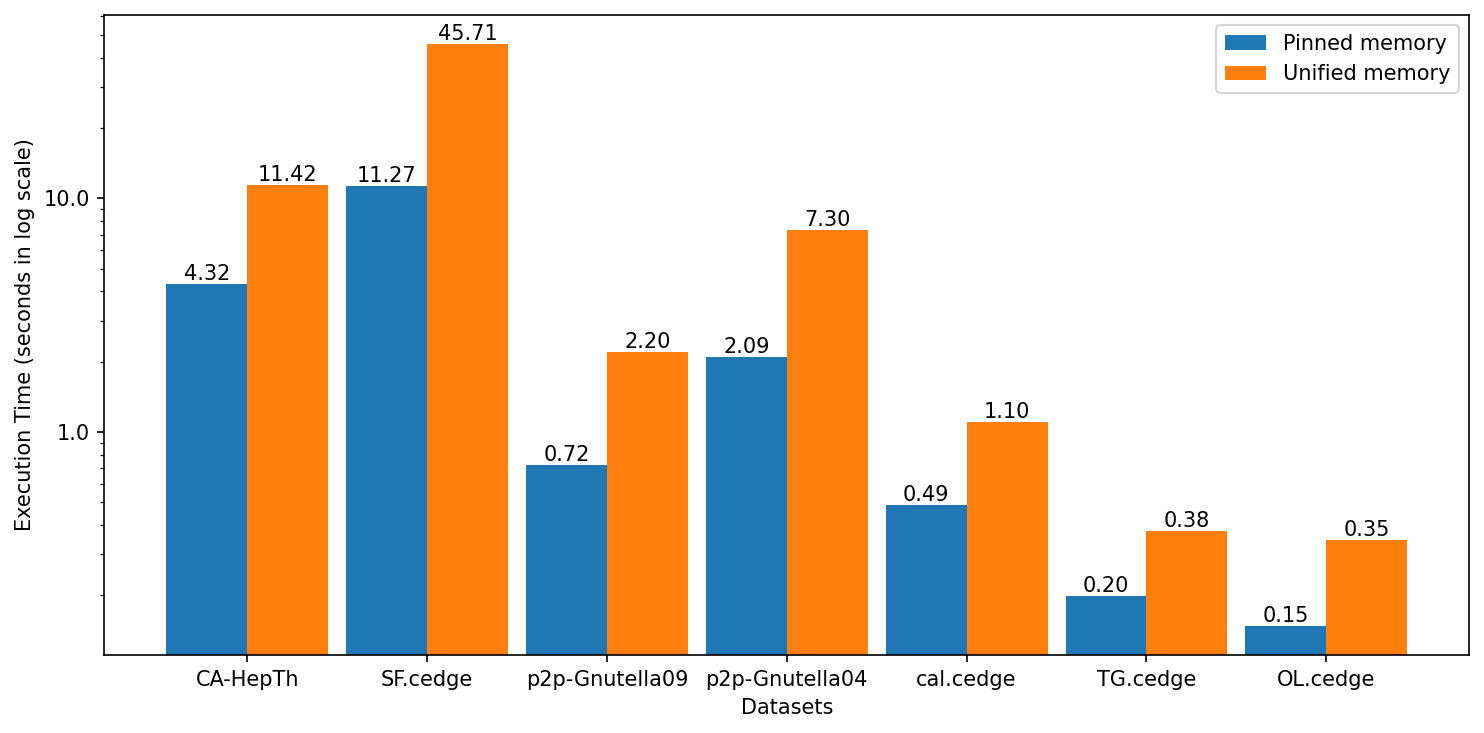
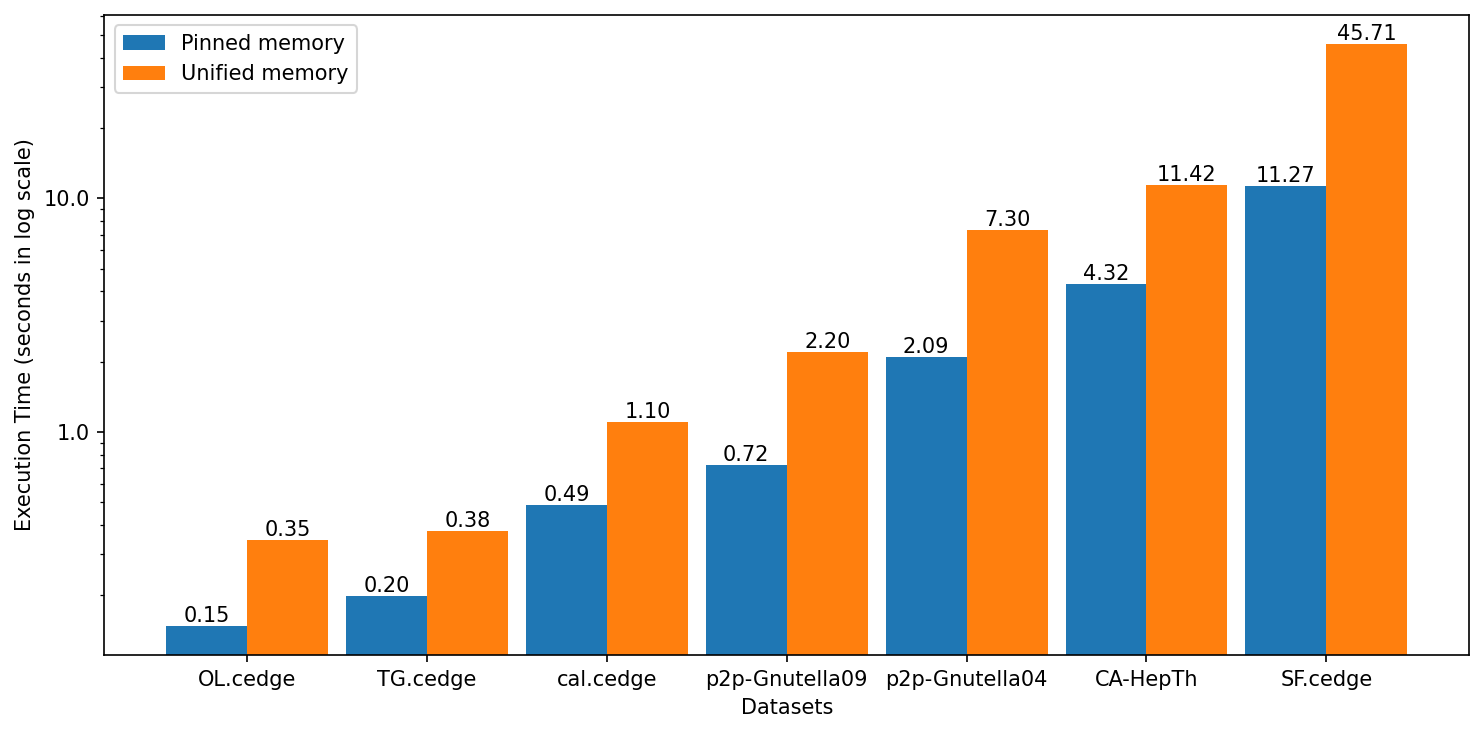
added random graph for isolated hashjoin

diff --git a/rapids_implementation/join.py b/rapids_implementation/join.py
@@ -1,7 +1,9 @@
+import random
 import re
 import cudf
 import time
 import json
+import pandas as pd
 
 
 def display_time(time_start, time_end, message):
@@ -11,8 +13,8 @@ def display_time(time_start, time_end, message):
 
 def get_join(relation_1, relation_2, column_names=['column 1', 'column 2']):
     result = relation_1.merge(relation_2, on=column_names[0],
-                            how="inner",
-                            suffixes=('_relation_1', '_relation_2'))
+                              how="inner",
+                              suffixes=('_relation_1', '_relation_2'))
     temp = result.drop([column_names[0]], axis=1)
     temp.columns = column_names
     return temp
@@ -26,6 +28,26 @@ def get_dataset(filename, column_names=['column 1', 'column 2'],
         nrows = int(re.search('\d+|$', filename).group())
     return cudf.read_csv(filename, sep='\t', header=None,
                          names=column_names, nrows=nrows)
+
+
+def get_dataset_random(dataset, random_category,
+                       column_names=['column 1', 'column 2']):
+    nrows = int(re.search('\d+|$', dataset).group())
+    ar = []
+    if random_category == 1:
+        for i in range(nrows):
+            row = []
+            row.append(random.randint(0, 32767))
+            row.append(random.randint(0, 32767))
+            ar.append(row)
+    else:
+        x = 1
+        y = 2
+        for i in range(nrows):
+            ar.append([x, y])
+            x += 1
+            y += 1
+    return pd.DataFrame(ar, columns=column_names)
 
 
 def get_join_result(dataset):
@@ -43,51 +65,101 @@ def get_join_result(dataset):
     return rows, len(join_result), time_took
 
 
-def generate_benchmark(datasets=None):
+def get_join_result_random(dataset):
+    COLUMN_NAMES = ['column 1', 'column 2']
+    rows = int(re.search('\d+|$', dataset).group())
+    random_category = 1
+    if "string" in dataset:
+        random_category = 2
+    relation_1 = get_dataset_random(dataset, random_category, COLUMN_NAMES)
+    start_time_outer = time.perf_counter()
+    relation_2 = relation_1.copy()
+    relation_2.columns = COLUMN_NAMES[::-1]
+    join_result = get_join(relation_2, relation_1, COLUMN_NAMES)
+    end_time_outer = time.perf_counter()
+    time_took = end_time_outer - start_time_outer
+    time_took = f"{time_took:.6f}"
+    return rows, len(join_result), time_took
+
+
+def generate_benchmark(datasets=None, random_dataset=False):
     result = []
     print("| Dataset | Number of rows | #Join | Time (s) |")
     print("| --- | --- | --- | --- | --- |")
-    for key, dataset in datasets.items():
-        try:
-            record = get_join_result(dataset)
-            record = list(record)
-            record.insert(0, key)
-            result.append(record)
-            message = " | ".join([str(s) for s in record])
-            message = "| " + message + " |"
-            print(message)
-        except Exception as ex:
-            print(str(ex))
-            break
+    if random_dataset == False:
+        for key, dataset in datasets.items():
+            try:
+                record = get_join_result(dataset)
+                record = list(record)
+                record.insert(0, key)
+                result.append(record)
+                message = " | ".join([str(s) for s in record])
+                message = "| " + message + " |"
+                print(message)
+            except Exception as ex:
+                print(str(ex))
+                break
+    else:
+        for dataset in datasets:
+            try:
+                record = get_join_result_random(dataset)
+                record = list(record)
+                record.insert(0, dataset)
+                result.append(record)
+                message = " | ".join([str(s) for s in record])
+                message = "| " + message + " |"
+                print(message)
+            except Exception as ex:
+                print(str(ex))
+                break
     print("\n")
     # with open('join.json', 'w') as f:
     #     json.dump(result, f)
 
 
 if __name__ == "__main__":
-    generate_benchmark(datasets={
-        "OL.cedge_initial": "../data/data_7035.txt",
-        "CA-HepTh": "../data/data_51971.txt",
-        "SF.cedge": "../data/data_223001.txt",
-        "ego-Facebook": "../data/data_88234.txt",
-        "wiki-Vote": "../data/data_103689.txt",
-        "p2p-Gnutella09": "../data/data_26013.txt",
-        "p2p-Gnutella04": "../data/data_39994.txt",
-        "cal.cedge": "../data/data_21693.txt",
-        "TG.cedge": "../data/data_23874.txt",
-        "OL.cedge": "../data/data_7035.txt",
-        "luxembourg_osm": "../data/data_119666.txt",
-        "fe_sphere": "../data/data_49152.txt",
-        "fe_body": "../data/data_163734.txt",
-        "cti": "../data/data_48232.txt",
-        "fe_ocean": "../data/data_409593.txt",
-        "wing": "../data/data_121544.txt",
-        "loc-Brightkite": "../data/data_214078.txt",
-        "delaunay_n16": "../data/data_196575.txt",
-        "usroads": "../data/data_165435.txt",
-        # "talk 5": "../data/data_5.txt",
-        # "string 4": "../data/data_4.txt",
-        # "cyclic 3": "../data/data_3.txt",
-        # "data_22": "../data/data_22.txt",
-        # "String 9990": "../data/data_9990.txt"
-    })
+    # generate_benchmark(datasets={
+    #     "OL.cedge_initial": "../data/data_7035.txt",
+    #     "CA-HepTh": "../data/data_51971.txt",
+    #     "SF.cedge": "../data/data_223001.txt",
+    #     "ego-Facebook": "../data/data_88234.txt",
+    #     "wiki-Vote": "../data/data_103689.txt",
+    #     "p2p-Gnutella09": "../data/data_26013.txt",
+    #     "p2p-Gnutella04": "../data/data_39994.txt",
+    #     "cal.cedge": "../data/data_21693.txt",
+    #     "TG.cedge": "../data/data_23874.txt",
+    #     "OL.cedge": "../data/data_7035.txt",
+    #     "luxembourg_osm": "../data/data_119666.txt",
+    #     "fe_sphere": "../data/data_49152.txt",
+    #     "fe_body": "../data/data_163734.txt",
+    #     "cti": "../data/data_48232.txt",
+    #     "fe_ocean": "../data/data_409593.txt",
+    #     "wing": "../data/data_121544.txt",
+    #     "loc-Brightkite": "../data/data_214078.txt",
+    #     "delaunay_n16": "../data/data_196575.txt",
+    #     "usroads": "../data/data_165435.txt",
+    #     # "talk 5": "../data/data_5.txt",
+    #     # "string 4": "../data/data_4.txt",
+    #     # "cyclic 3": "../data/data_3.txt",
+    #     # "data_22": "../data/data_22.txt",
+    #     # "String 9990": "../data/data_9990.txt"
+    # })
+
+    generate_benchmark(datasets=[
+        # "random 1000",
+        # "random 2000",
+        # "string 4000",
+        # "string 5000",
+        "random 10000000",
+        "random 20000000",
+        "random 30000000",
+        "random 40000000",
+        "random 50000000",
+        "string 10000000",
+        "string 20000000",
+        "string 30000000",
+        "string 40000000",
+        "string 50000000",
+        "random 100000000",
+        "string 100000000",
+    ], random_dataset=True)

diff --git a/tc_cuda/chart_generation/generate_bar_chart.py b/tc_cuda/chart_generation/generate_bar_chart.py
@@ -7,12 +7,21 @@ from matplotlib.ticker import ScalarFormatter
 def draw_bar_chart(xtick_labels, datasets, dataset_titles,
                    x_label=None,
                    y_label=None,
-                   title=None, figure_path=None):
-    label_locations = np.arange(len(xtick_labels))
+                   title=None, figure_path=None, figure_width=10, figure_height=5):
     total_width = 0.9
+    # if len(datasets[0]) > 7:
+    #     total_width = 0.5
+
     single_width = total_width / len(datasets)
 
-    fig, ax = plt.subplots(figsize=(10, 5))
+    # sort the labels and data by first dataset ascending order
+    sorted_index = np.argsort(np.array(datasets[0]))
+    xtick_labels = [xtick_labels[i] for i in sorted_index]
+    for i, dataset in enumerate(datasets):
+        datasets[i] = [dataset[j] for j in sorted_index]
+    label_locations = np.arange(len(xtick_labels))
+
+    fig, ax = plt.subplots(figsize=(figure_width, figure_height))
     for i in range(len(datasets)):
         mid = len(datasets) / 2
         if i < mid:
@@ -31,7 +40,10 @@ def draw_bar_chart(xtick_labels, datasets, dataset_titles,
         ax.set_ylabel(y_label)
     if title:
         ax.set_title(title)
-    ax.set_xticks(label_locations, xtick_labels)
+    if len(datasets[0]) > 7:
+        ax.set_xticks(label_locations, xtick_labels, rotation=90)
+    else:
+        ax.set_xticks(label_locations, xtick_labels)
     ax.legend()
 
     plt.yscale("log")
@@ -39,7 +51,7 @@ def draw_bar_chart(xtick_labels, datasets, dataset_titles,
 
     fig.tight_layout()
     if figure_path == None:
-        figure_path = 'screenshots/bar.png'
+        figure_path = 'output/bar.png'
     fig.savefig(figure_path, dpi=150, bbox_inches="tight")
     print(f"Figure saved in {figure_path}")
 
@@ -58,5 +70,24 @@ def show_cuda_pinned_unified():
                    figure_path=output_filename)
 
 
+def show_cuda_souffle():
+    dataset_labels = ['CA-HepTh', 'SF.cedge', 'p2p-Gnutella09', 'p2p-Gnutella04', 'cal.cedge', 'TG.cedge', 'OL.cedge',
+                      'luxembourg_osm', 'wiki-Vote', 'wing', 'ego-Facebook', 'delaunay_n16',
+                      'fe_sphere', 'loc-Brightkite', 'fe_ocean', 'cti', 'fe_body', 'usroads']
+    cuda_dataset = [4.3180, 11.2749, 0.7202, 2.0920, 0.4894, 0.1989, 0.1481, 1.3222, 1.1372, 0.0857,
+                    0.5442, 1.1374, 13.1590, 15.8805, 138.2379, 0.2953, 47.7587, 364.5549]
+    cuda_dataset_title = "CUDA"
+    souffle_dataset = [15.206, 17.073, 3.094, 7.537, 0.455, 0.219, 0.181, 2.548, 3.172, 0.193,
+                       0.606, 1.612, 20.008, 29.184, 536.233, 1.496, 29.070, 222.761]
+    souffle_dataset_title = "Souffle"
+    x_label = "Datasets"
+    y_label = "Execution Time (seconds in log scale)"
+    output_filename = os.path.join("output", "cuda_vs_souffle.png")
+    draw_bar_chart(dataset_labels, [cuda_dataset, souffle_dataset], [cuda_dataset_title, souffle_dataset_title],
+                   x_label, y_label,
+                   figure_path=output_filename, figure_width=12, figure_height=6)
+
+
 if __name__ == "__main__":
-    show_cuda_pinned_unified()
+    # show_cuda_pinned_unified()
+    show_cuda_souffle()
